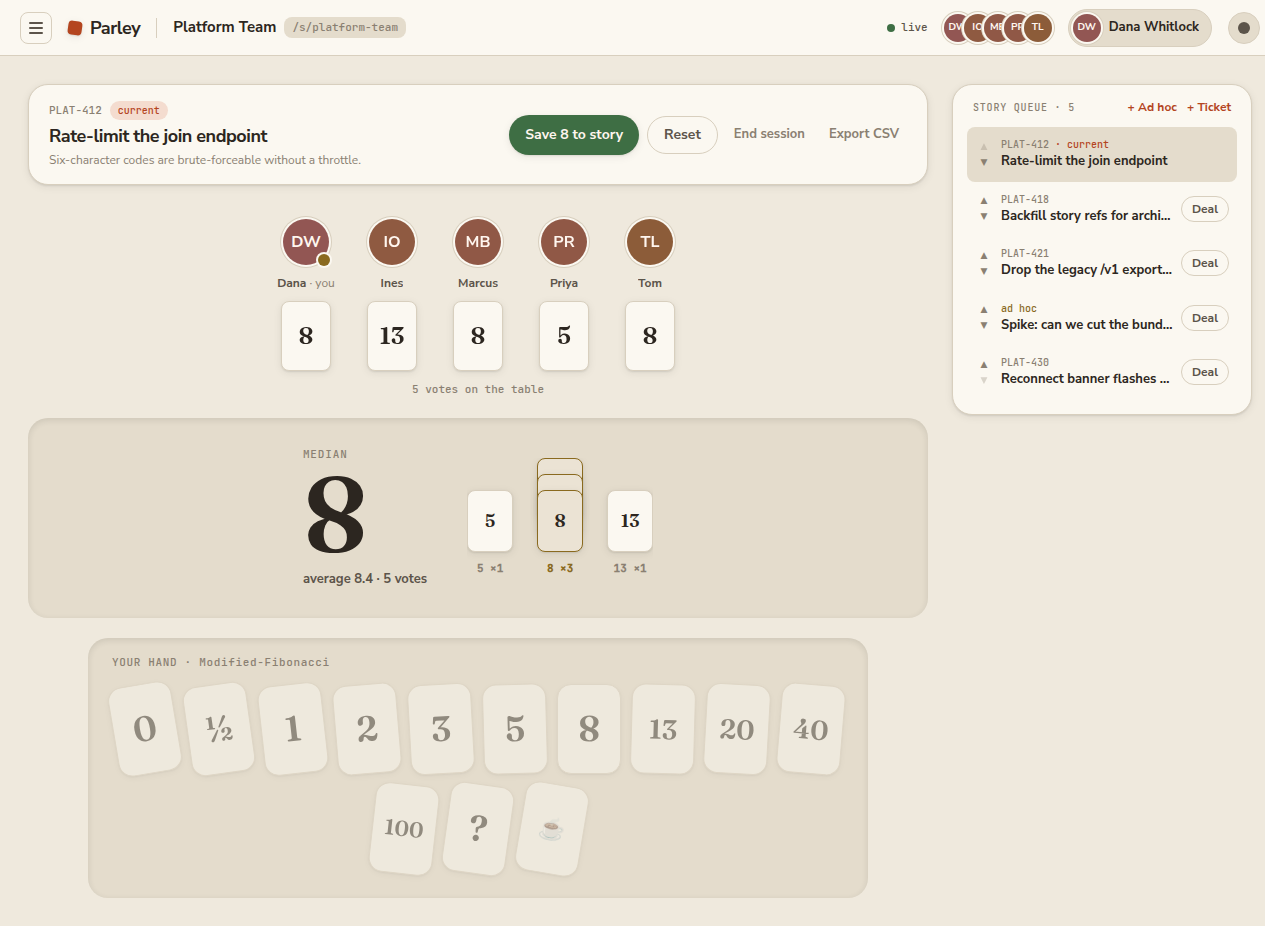
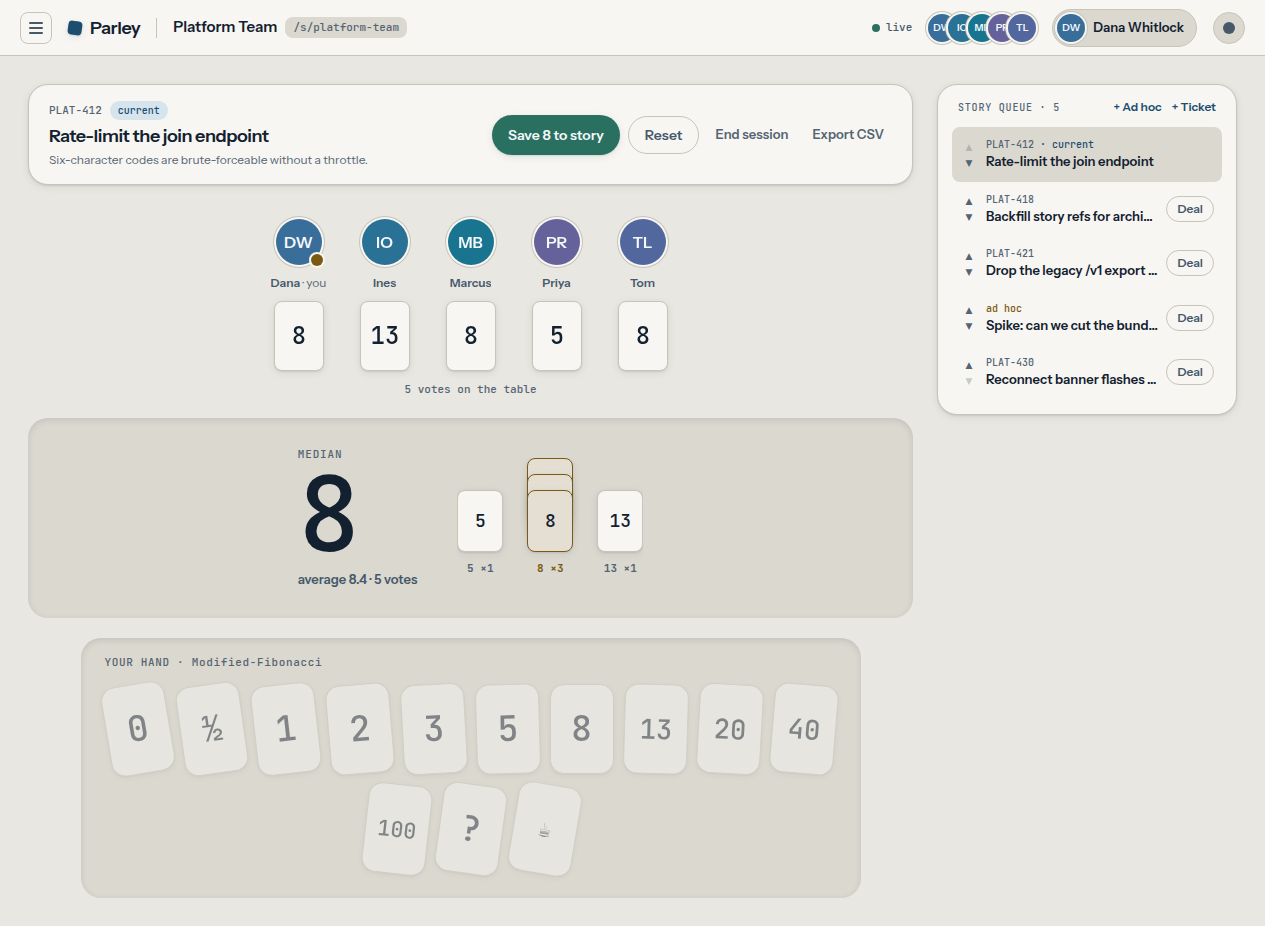
feat(web): retheme to maritime ink and split the type roles
The old "The Table" palette read as warm card-table earth tones — coffee,
terracotta, felt. A parley is a talk under a flag of truce between ships, so
the palette moves to chart paper and navy ink: harbour blue for actions,
brass for the facilitator, signal-flag red and verdigris for stop/go. Dark
becomes a night watch rather than lamplit espresso.

Typography drops the Fraunces serif, which was doing most of the cozy work.
Instrument Sans carries UI and headings; JetBrains Mono now carries only the
things that are data — card values, the reveal numeral, timers, ticket refs —
with tabular figures so vote counts do not shimmer as digits swap.

Token names are unchanged, so no component had to move; the only component
edits are the six call sites where a numeral asked for the display face and
should have asked for mono, plus the avatar hue arc, which hardcoded the warm
range. Every text token clears 4.5:1 against its ground in both themes.

README screenshots re-shot against the new palette at their original
dimensions. Also fixes the placeholder <title>web</title>.

diff --git a/web/src/tokens.css b/web/src/tokens.css
@@ -1,8 +1,13 @@
 @import "tailwindcss";
 
-/* Parley design tokens — "The Table".
-   Warm card-table neutrals; depth and texture only on cards and wells; Fraunces
-   confined to numerals and display headlines. Dark is lamplit, not gray-inverted.
+/* Parley design tokens — "Maritime ink".
+   A parley is a talk under a flag of truce between two ships: chart paper and
+   navy ink, brass for the facilitator's authority, signal-flag red and verdigris
+   for stop/go. Depth and texture only on cards and wells; numerals are mono
+   because they are data — mono is for card values, timers and refs, never for
+   a person's name. Dark is a night watch, not a gray inversion.
+
+   `felt` is historical: it now names the page ground, not a card-table cloth.
 
    Theme resolution: the palette below is the light default. Dark applies when
    the system asks for it and the user has not pinned light, or when the user
@@ -10,26 +15,26 @@
    — the toggle has to win in both directions. */
 
 :root {
-  /* Light: daylight table */
-  --color-felt:        #EFE9DD;
-  --color-felt-deep:   #E4DCCC;
-  --color-surface:     #FBF8F1;
+  /* Light: chart paper */
+  --color-felt:        #E9E7E1;
+  --color-felt-deep:   #DBD8D0;
+  --color-surface:     #F7F6F2;
   --color-surface-hi:  #FFFFFF;
-  --color-ink:         #2C2620;
-  --color-ink-soft:    #5C544A;
-  --color-ink-faint:   #8A8072;
-  --color-line:        #D8CFBE;
-  --color-accent:      #B4451F;
-  --color-accent-ink:  #FFF6EF;
-  --color-accent-soft: #F4DCCF;
-  --color-brass:       #8A6A1F;
-  --color-go:          #3E6E44;
-  --color-stop:        #A93B32;
-  --color-card-back:   #7A4A32;
-  --color-pip:         #FBF8F1;
+  --color-ink:         #12202F;
+  --color-ink-soft:    #46596B;
+  --color-ink-faint:   #556472;
+  --color-line:        #C7C4BA;
+  --color-accent:      #1D4E6E;
+  --color-accent-ink:  #F4F8FB;
+  --color-accent-soft: #D6E4EE;
+  --color-brass:       #7A5A12;
+  --color-go:          #2A7060;
+  --color-stop:        #B33326;
+  --color-card-back:   #1D3346;
+  --color-pip:         #C9922E;
 
-  --font-sans: "Nunito Sans", "Avenir Next", -apple-system, "Segoe UI", sans-serif;
-  --font-display: "Fraunces", "Iowan Old Style", Georgia, serif;
+  --font-sans: "Instrument Sans", -apple-system, "Segoe UI", sans-serif;
+  --font-display: "Instrument Sans", -apple-system, "Segoe UI", sans-serif;
   --font-mono: "JetBrains Mono", ui-monospace, monospace;
   --text-num-card: 2.2rem;
   --text-num-table: 1.5rem;
@@ -38,9 +43,9 @@
   --radius-chip: 8px;
   --radius-card: 14px;
   --radius-panel: 20px;
-  --shadow-rest: 0 1px 2px rgb(44 38 32 / 0.1), 0 2px 8px rgb(44 38 32 / 0.08);
-  --shadow-lift: 0 2px 4px rgb(44 38 32 / 0.12), 0 10px 24px rgb(44 38 32 / 0.16);
-  --shadow-well: inset 0 2px 6px rgb(44 38 32 / 0.12);
+  --shadow-rest: 0 1px 2px rgb(18 32 47 / 0.1), 0 2px 8px rgb(18 32 47 / 0.08);
+  --shadow-lift: 0 2px 4px rgb(18 32 47 / 0.12), 0 10px 24px rgb(18 32 47 / 0.16);
+  --shadow-well: inset 0 2px 6px rgb(18 32 47 / 0.12);
 
   --ease-spring: cubic-bezier(0.34, 1.56, 0.64, 1);
   --ease-settle: cubic-bezier(0.22, 1, 0.36, 1);
@@ -51,25 +56,25 @@
   --dur-toast: 220ms;
 }
 
-/* Dark: evening game — lamplit espresso. */
+/* Dark: night watch — deep navy hull, paper-warm text. */
 @media (prefers-color-scheme: dark) {
   :root:not([data-theme="light"]) {
-    --color-felt:        #221D17;
-    --color-felt-deep:   #1A1611;
-    --color-surface:     #2E2820;
-    --color-surface-hi:  #3A332A;
-    --color-ink:         #F1EADD;
-    --color-ink-soft:    #B5AB9B;
-    --color-ink-faint:   #7E7566;
-    --color-line:        #453D32;
-    --color-accent:      #E8956A;
-    --color-accent-ink:  #2A160C;
-    --color-accent-soft: #4A3527;
+    --color-felt:        #0E1726;
+    --color-felt-deep:   #0A101B;
+    --color-surface:     #162032;
+    --color-surface-hi:  #1E2B3F;
+    --color-ink:         #E9E7E1;
+    --color-ink-soft:    #A3B1C0;
+    --color-ink-faint:   #8494A4;
+    --color-line:        #2A3648;
+    --color-accent:      #5FA8D3;
+    --color-accent-ink:  #08131F;
+    --color-accent-soft: #1C3247;
     --color-brass:       #D9AE54;
-    --color-go:          #8FBE8F;
-    --color-stop:        #E88A7E;
-    --color-card-back:   #5C3826;
-    --color-pip:         #F1EADD;
+    --color-go:          #5FBFA6;
+    --color-stop:        #E3695C;
+    --color-card-back:   #0B1421;
+    --color-pip:         #C9922E;
     --shadow-rest: 0 1px 2px rgb(0 0 0 / 0.4), 0 2px 8px rgb(0 0 0 / 0.3);
     --shadow-lift: 0 2px 4px rgb(0 0 0 / 0.45), 0 12px 28px rgb(0 0 0 / 0.4);
     --shadow-well: inset 0 2px 6px rgb(0 0 0 / 0.45);
@@ -77,22 +82,22 @@
 }
 
 :root[data-theme="dark"] {
-  --color-felt:        #221D17;
-  --color-felt-deep:   #1A1611;
-  --color-surface:     #2E2820;
-  --color-surface-hi:  #3A332A;
-  --color-ink:         #F1EADD;
-  --color-ink-soft:    #B5AB9B;
-  --color-ink-faint:   #7E7566;
-  --color-line:        #453D32;
-  --color-accent:      #E8956A;
-  --color-accent-ink:  #2A160C;
-  --color-accent-soft: #4A3527;
+  --color-felt:        #0E1726;
+  --color-felt-deep:   #0A101B;
+  --color-surface:     #162032;
+  --color-surface-hi:  #1E2B3F;
+  --color-ink:         #E9E7E1;
+  --color-ink-soft:    #A3B1C0;
+  --color-ink-faint:   #8494A4;
+  --color-line:        #2A3648;
+  --color-accent:      #5FA8D3;
+  --color-accent-ink:  #08131F;
+  --color-accent-soft: #1C3247;
   --color-brass:       #D9AE54;
-  --color-go:          #8FBE8F;
-  --color-stop:        #E88A7E;
-  --color-card-back:   #5C3826;
-  --color-pip:         #F1EADD;
+  --color-go:          #5FBFA6;
+  --color-stop:        #E3695C;
+  --color-card-back:   #0B1421;
+  --color-pip:         #C9922E;
   --shadow-rest: 0 1px 2px rgb(0 0 0 / 0.4), 0 2px 8px rgb(0 0 0 / 0.3);
   --shadow-lift: 0 2px 4px rgb(0 0 0 / 0.45), 0 12px 28px rgb(0 0 0 / 0.4);
   --shadow-well: inset 0 2px 6px rgb(0 0 0 / 0.45);
@@ -133,6 +138,10 @@ body {
   font-family: var(--font-sans);
   -webkit-font-smoothing: antialiased;
 }
+
+/* Vote counts and card values change in place; tabular figures stop them
+   shimmering as digits swap. */
+.font-mono { font-variant-numeric: tabular-nums; }
 
 /* The hand fans, lifts under the cursor, and stays lifted once picked. Kept in
    CSS rather than inline styles so :hover can win over the resting fan angle. */

diff --git a/web/src/components/ResultsPanel.tsx b/web/src/components/ResultsPanel.tsx
@@ -43,7 +43,7 @@ export function ResultsPanel({ results }: { results: Results }) {
           {hero.label}
         </div>
         <div
-          className="font-display leading-none text-ink"
+          className="font-mono leading-none text-ink"
           style={{ fontSize: "var(--text-num-result)", animation: "stamp-in 350ms var(--ease-settle) 560ms both" }}
         >
           {hero.value}
@@ -70,7 +70,7 @@ export function ResultsPanel({ results }: { results: Results }) {
                 {Array.from({ length: row.count }, (_, j) => (
                   <span
                     key={j}
-                    className="flex h-[62px] w-[46px] items-center justify-center rounded-chip border font-display text-lg text-ink shadow-rest"
+                    className="flex h-[62px] w-[46px] items-center justify-center rounded-chip border font-mono text-lg text-ink shadow-rest"
                     style={{
                       marginBottom: j ? -46 : 0,
                       background: isMode

diff --git a/web/src/components/Avatar.tsx b/web/src/components/Avatar.tsx
@@ -26,10 +26,11 @@ export function Avatar({ name, hue, size = "md", facilitator, spectator, dim }: 
         width: px,
         height: px,
         fontSize: Math.round(px * 0.34),
-        // Identity hue folded into the table's warm arc — eight distinguishable
-        // chips that still read as one deck, never a stray green or blue.
-        background: `oklch(0.52 0.08 ${20 + (((hue % 360) + 360) % 360) / 360 * 70})`,
-        color: "#FFF6EF",
+        // Identity hue folded into the maritime arc, verdigris through harbour
+        // blue to indigo — distinguishable chips that still read as one signal
+        // set, never a stray warm orange.
+        background: `oklch(0.52 0.09 ${185 + (((hue % 360) + 360) % 360) / 360 * 105})`,
+        color: "#F4F8FB",
         boxShadow: "0 0 0 2px var(--color-surface), 0 0 0 3px var(--color-line)",
         opacity: spectator || dim ? 0.55 : 1,
       }}

diff --git a/web/src/components/Hand.tsx b/web/src/components/Hand.tsx
@@ -63,7 +63,7 @@ export function Hand({
                 disabled={disabled}
                 aria-pressed={isSel}
                 className={
-                  "hand-card flex h-16 items-center justify-center rounded-card border bg-surface font-display text-ink shadow-rest " +
+                  "hand-card flex h-16 items-center justify-center rounded-card border bg-surface font-mono text-ink shadow-rest " +
                   "sm:h-[90px] sm:w-16 " +
                   (isSel
                     ? "border-2 border-accent bg-accent-soft shadow-lift"

diff --git a/web/src/components/StoryQueue.tsx b/web/src/components/StoryQueue.tsx
@@ -113,7 +113,7 @@ export function StoryQueue({
             {s.estimate ? (
               <span
                 title="Agreed estimate"
-                className="flex h-[33px] w-6 shrink-0 items-center justify-center rounded-[5px] border border-brass bg-surface font-display text-[0.8rem] shadow-rest"
+                className="flex h-[33px] w-6 shrink-0 items-center justify-center rounded-[5px] border border-brass bg-surface font-mono text-[0.8rem] shadow-rest"
               >
                 {faceOf(s.estimate)}
               </span>

diff --git a/web/src/components/Table.tsx b/web/src/components/Table.tsx
@@ -36,7 +36,7 @@ function SeatCard({
     const hop = consensus ? `, card-hop 450ms var(--ease-spring) ${620 + index * 40}ms` : "";
     return (
       <span
-        className="flex h-[70px] w-[50px] items-center justify-center rounded-chip border border-line bg-surface font-display text-2xl shadow-rest"
+        className="flex h-[70px] w-[50px] items-center justify-center rounded-chip border border-line bg-surface font-mono text-2xl shadow-rest"
         style={{ animation: flip + hop }}
       >
         {value ? faceOf(value) : "—"}

diff --git a/web/src/pages/SpacePage.tsx b/web/src/pages/SpacePage.tsx
@@ -476,7 +476,7 @@ function NewSessionModal({
                     {d.sample.map((v) => (
                       <span
                         key={v}
-                        className="flex h-7 w-5 items-center justify-center rounded-[4px] border border-line bg-surface font-display text-[0.65rem]"
+                        className="flex h-7 w-5 items-center justify-center rounded-[4px] border border-line bg-surface font-mono text-[0.65rem]"
                       >
                         {v}
                       </span>

diff --git a/web/src/main.tsx b/web/src/main.tsx
@@ -1,9 +1,9 @@
 import { StrictMode } from 'react'
 import { createRoot } from 'react-dom/client'
-import '@fontsource/nunito-sans/400.css'
-import '@fontsource/nunito-sans/700.css'
-import '@fontsource/fraunces/600.css'
+import '@fontsource/instrument-sans/400.css'
+import '@fontsource/instrument-sans/600.css'
 import '@fontsource/jetbrains-mono/500.css'
+import '@fontsource/jetbrains-mono/700.css'
 import './tokens.css'
 import App from './App.tsx'
 

diff --git a/web/index.html b/web/index.html
@@ -4,7 +4,7 @@
     <meta charset="UTF-8" />
     <link rel="icon" type="image/svg+xml" href="/favicon.svg" />
     <meta name="viewport" content="width=device-width, initial-scale=1.0" />
-    <title>web</title>
+    <title>Parley</title>
   </head>
   <body>
     <div id="root"></div>
